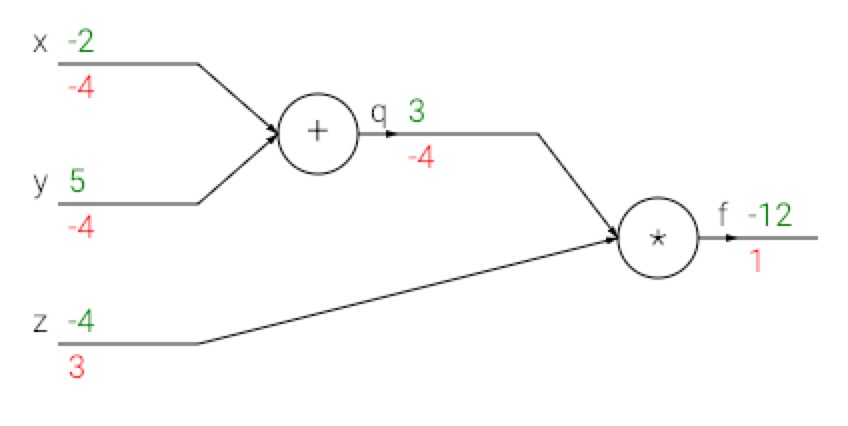
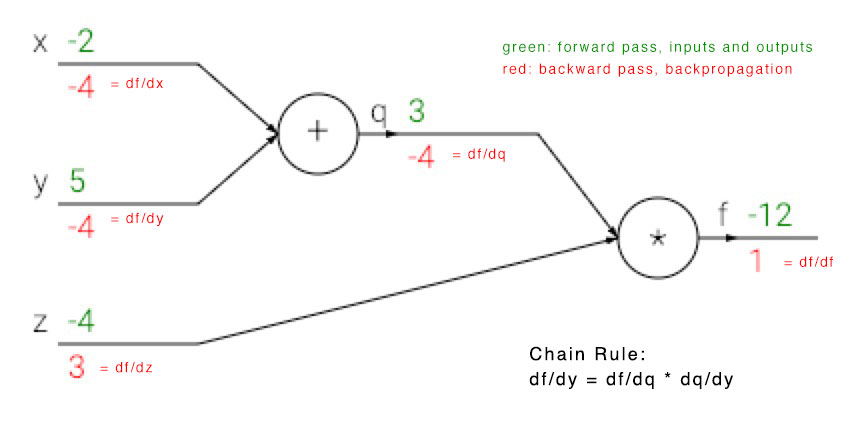
backpropagation

diff --git a/Image Recoginization 图像识别/10.0.4 Gradient and Backpropagation.md b/Image Recoginization 图像识别/10.0.4 Gradient and Backpropagation.md
@@ -1,0 +1,52 @@
+# Gradient Descent
+
+
+## Gradient Descent and Learning Rate
+
+$$f(x) = kx + b \rightarrow  k = \frac{{\delta}f(x)}{{\delta}x} = lim_{h->0}\frac{f(x+h) - f(x)}{h}$$
+
+$$f(x,y)=xy  \rightarrow  \frac{{\delta}f}{{\delta}x} = y,  \frac{{\delta}f}{{\delta}x} = x$$
+
+$$ gradient: \frac{d(fx)}{dx} = lim_{h->0}\frac{f(x+h)-f(x)}{h}$$
+
+![Gradient Demo](https://github.com/AarioAi/Note/blob/master/Image%20Recoginization%20%E5%9B%BE%E5%83%8F%E8%AF%86%E5%88%AB/_asset/CS231n-gradient-demo.jpg?raw=true)
+
+$$f(x = -2, y = 5, z = -4) = (x+y) * z$$
+
+$$q=x+y = 1x + y = 1y + x \rightarrow \frac{{\delta}q}{{\delta}x} =  \frac{{\delta}q}{{\delta}y} = 1$$
+
+$$f=qz \rightarrow \frac{{\delta}f}{{\delta}q} = z; \frac{{\delta}f}{{\delta}z} = q$$
+
+The **chain rule** tells us that the correct way to “chain” these gradient expressions together is through multiplication. E.g., $\frac{{\delta}f}{{\delta}x} = \frac{{\delta}f}{{\delta}q} * \frac{{\delta}q}{{\delta}x}$
+
+At the end we are left with the gradient in the variables [$\frac{{\delta}f}{{\delta}x}$, $\frac{{\delta}f}{{\delta}y}$, $\frac{{\delta}f}{{\delta}z}$], which tell us the sensitivity of the variables x,y,z on f!. This is the simplest example of **backpropagation**.
+
+> $\frac{{\delta}f}{{\delta}x} = -4$ if x were to descrease (responding to their negative gradient) then the add gate's output q would decrease, which inturn makes the multiply gate's output f increase.
+>> Backpropagation can thus be thought of as gates communicating to each other (through the gradient signal) whether they want their outputs to increase or decrease (and how strongly), so as to make the final output value higher.
+
+### Intuitive understanding of backpropagation
+
+Every gate in a circuit diagram gets some inputs and can right away compute two things: 1. its output value and 2. the local gradient of its inputs with respect to its output value. Chain rule says that the gate should take that gradient and multiply it into every gradient it normally computes for all of its inputs.
+
+> This extra multiplication (for each input) due to the chain rule can turn a single and relatively useless gate into a cog in a complex circuit such as an entire neural network.
+
+![Gradient](https://github.com/AarioAi/Note/blob/master/Image%20Recoginization%20%E5%9B%BE%E5%83%8F%E8%AF%86%E5%88%AB/_asset/CS231n-gradient.jpg?raw=true)
+
+* numerical gradient: approximate, slow, easy to write
+* analytic gradient: exact, fast, error-prone
+  
+> **Gradient Check**: in practice,  always use analystic gradient, but check implementation with numerical gradient.
+> Only use a small portion of the training set to compute the gradient. Common mini-batch sizes are 32/64/128/256 examples.
+
+```python
+while True:
+    data_batch = sample_training_data(data, 256)    # sample 256 examples
+    weights_grad = evaluate_gradient(loss_fun, data, weights)
+    weights += -learning_rate * weight_grad    #  learning_rate is also called step_size
+```
+
+![The effects of learning rate](https://github.com/AarioAi/Note/blob/master/Image%20Recoginization%20%E5%9B%BE%E5%83%8F%E8%AF%86%E5%88%AB/_asset/CS231n-the-effects-of-learning-rate.jpg?raw=true)
+
+## Reference
+* http://cs231n.github.io/linear-classify/
+* http://vision.stanford.edu/teaching/cs231n-demos/linear-classify/
